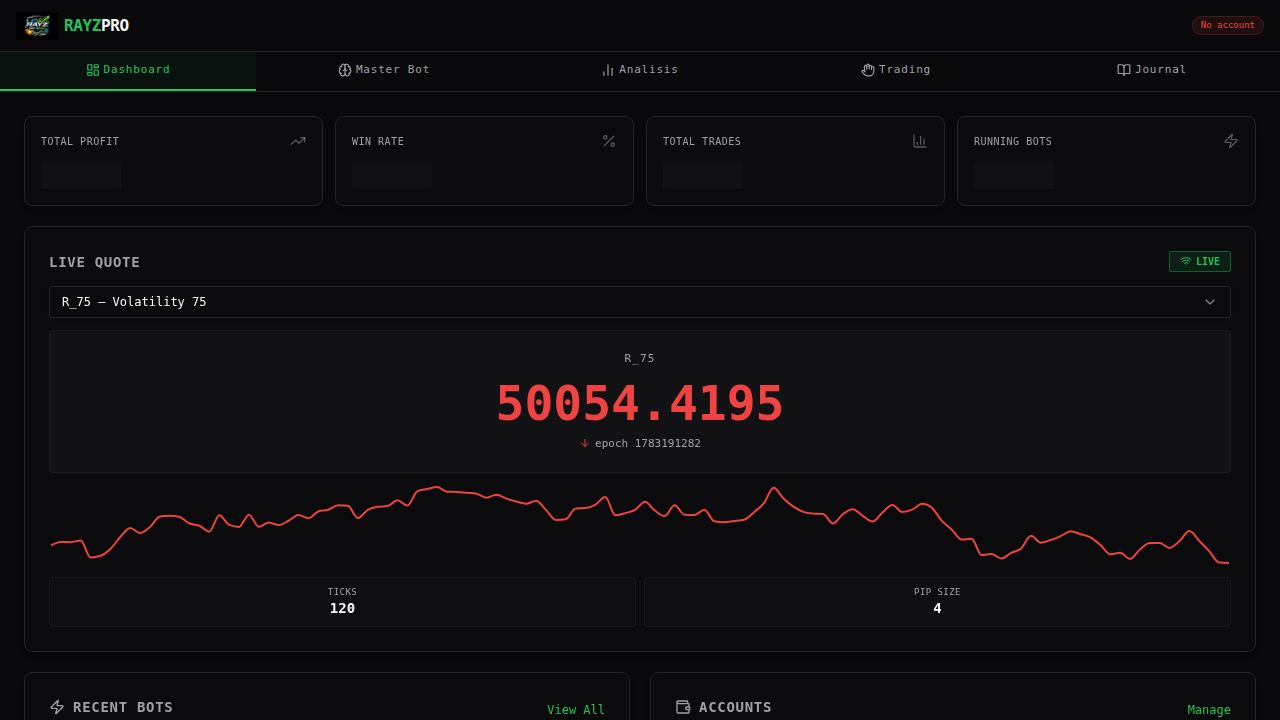
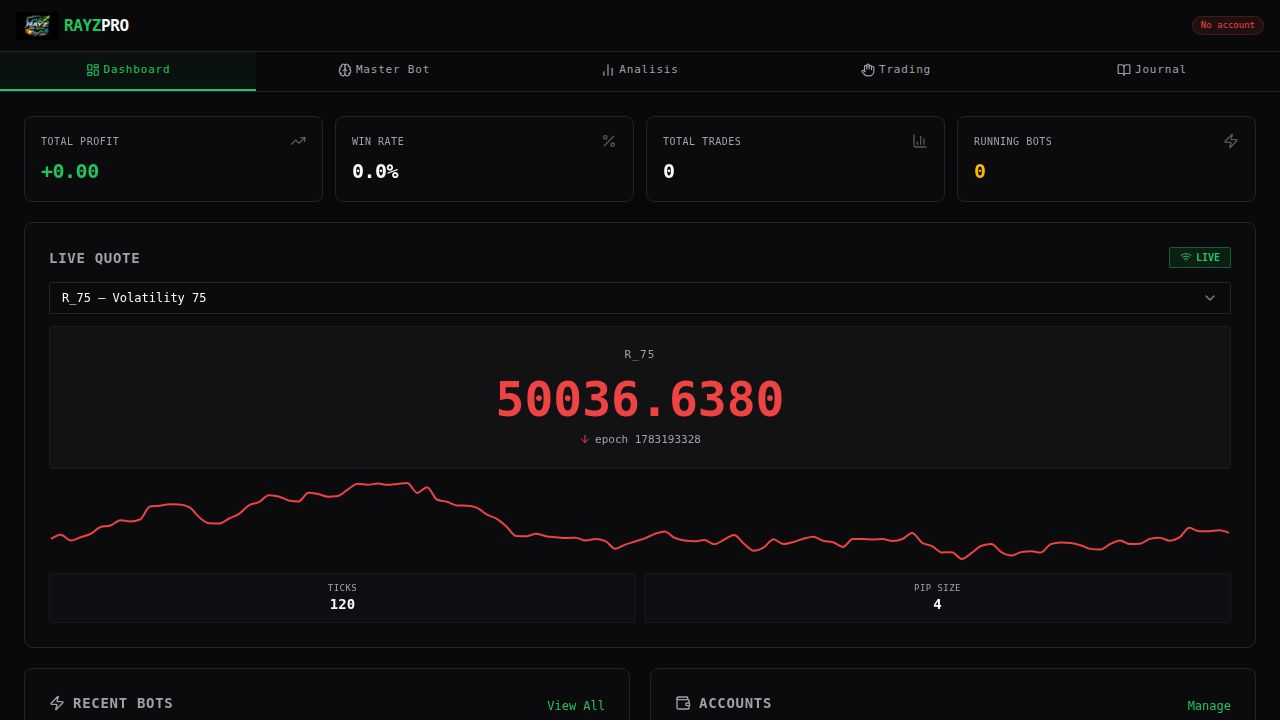
Improve login redirect behavior for a smoother user experience
Update login functionality to ensure proper redirection after authentication by modifying how external URLs are handled.

Replit-Commit-Author: Agent
Replit-Commit-Session-Id: 9378e60d-5a14-4ec3-960b-885283619503
Replit-Commit-Checkpoint-Type: full_checkpoint
Replit-Commit-Event-Id: 319b63cd-64ce-4629-ba47-c3b4ee01d119
Replit-Commit-Screenshot-Url: https://storage.googleapis.com/screenshot-production-us-central1/4d04b8b9-e885-4cff-82b2-e841f113a24c/9378e60d-5a14-4ec3-960b-885283619503/n6cdsMq
Replit-Helium-Checkpoint-Created: true

diff --git a/artifacts/tradehub/src/pages/accounts.tsx b/artifacts/tradehub/src/pages/accounts.tsx
@@ -37,21 +37,21 @@ function buildDerivOAuthUrl(): string {
 function loginWithDeriv() {
   const url = buildDerivOAuthUrl();
   // Deriv's login page refuses to render inside an iframe (X-Frame-Options),
-  // which is how the Replit preview shows this app. Breaking out to the top
-  // window (or opening a full new tab as a fallback) ensures the OAuth flow
-  // — and its redirect back — always happens in a real top-level browser tab.
+  // which is how the Replit preview shows this app. In that case, break out
+  // to the top window so the OAuth flow happens in a real top-level tab.
   try {
     if (window.top && window.top !== window.self) {
       window.top.location.href = url;
       return;
     }
   } catch {
-    // Cross-origin access to window.top can throw; fall through to window.open.
+    // Cross-origin access to window.top can throw — fall through below.
   }
-  const opened = window.open(url, "_blank", "noopener,noreferrer");
-  if (!opened) {
-    window.location.href = url;
-  }
+  // Normal case (real browser, not embedded in an iframe): navigate the
+  // current tab directly. This is the standard OAuth redirect pattern —
+  // Deriv will land the SAME tab back on redirect_uri after login, instead
+  // of opening a separate tab that the user has to manually switch to.
+  window.location.href = url;
 }
 
 // ── Zod schema ────────────────────────────────────────────────────────────────

diff --git a/artifacts/tradehub/dev-dist/sw.js b/artifacts/tradehub/dev-dist/sw.js
@@ -82,7 +82,7 @@ define(['./workbox-7521d49b'], (function (workbox) { 'use strict';
     "revision": "3ca0b8505b4bec776b69afdba2768812"
   }, {
     "url": "/index.html",
-    "revision": "0.7vk0jiqp5do"
+    "revision": "0.e7077s3ifog"
   }], {});
   workbox.cleanupOutdatedCaches();
   workbox.registerRoute(new workbox.NavigationRoute(workbox.createHandlerBoundToURL("/index.html"), {